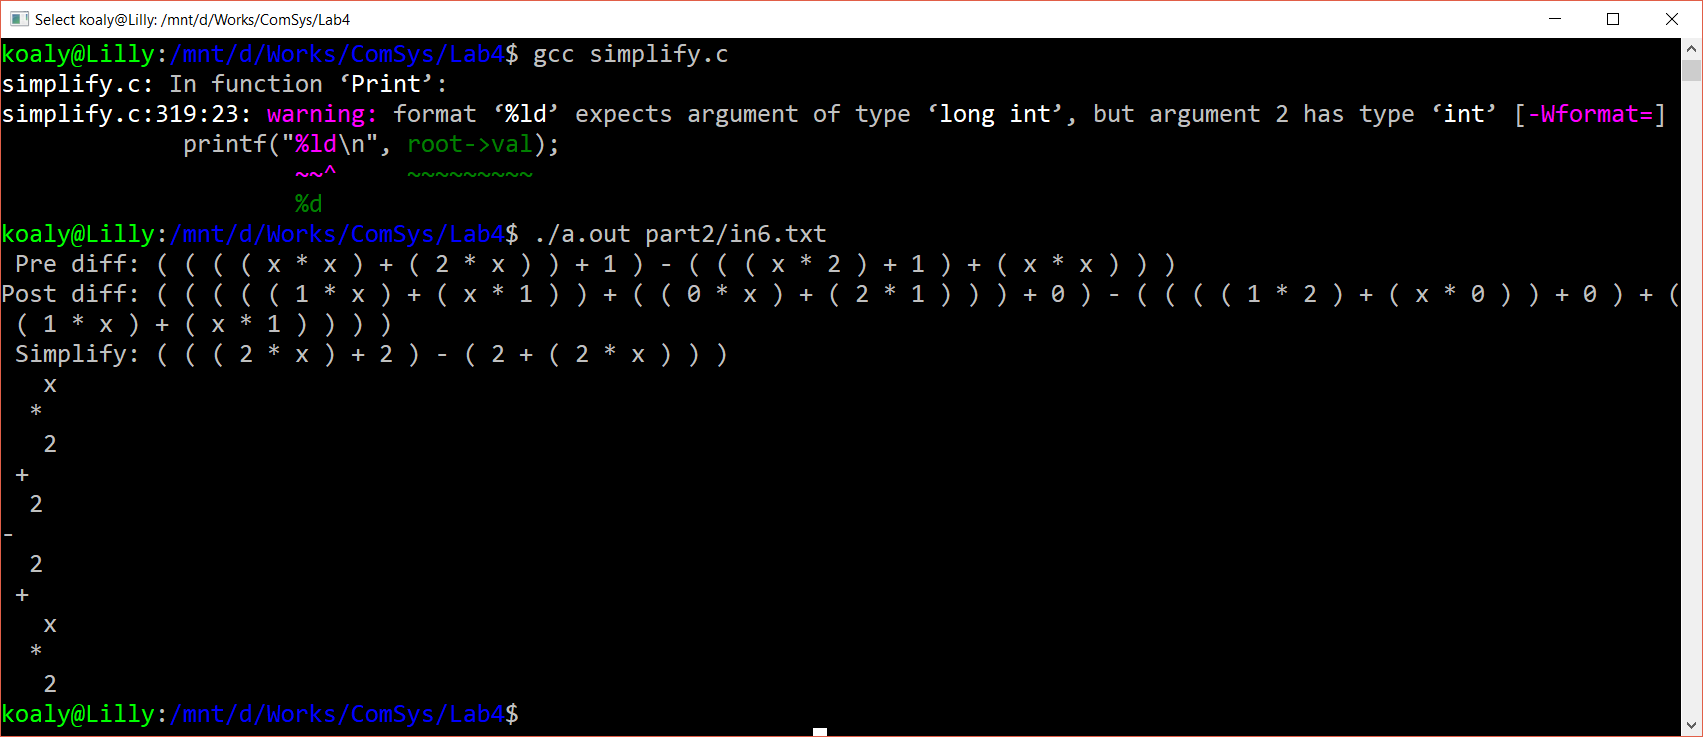
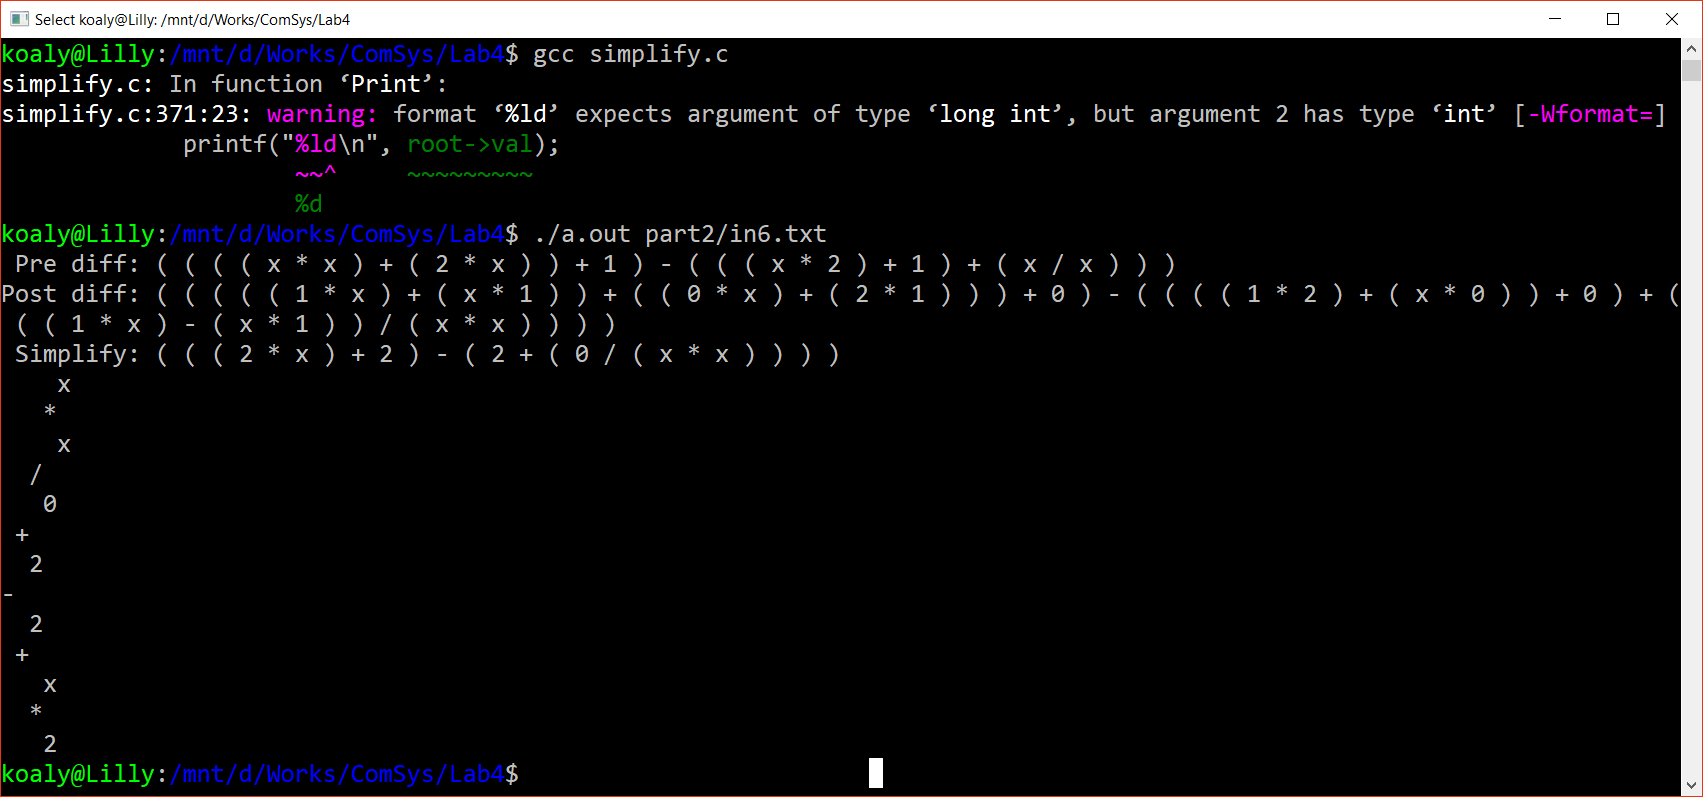
add diff for divide op

diff --git a/simplify.c b/simplify.c
@@ -103,6 +103,18 @@ static int SGet()
     return sym;
 }
 static int sym;
+static Node clone(Node root)
+{
+    if (root == NULL)
+        return root;
+
+    Node temp = malloc(sizeof(NodeDesc));
+    temp->kind = root->kind;
+    temp->val = root->val;
+    temp->left = clone(root->left);
+    temp->right = clone(root->right);
+    return temp;
+}
 static void Print(Node, int);
 static void PrintPrefix(Node);
 static void PrintInfix(Node);
@@ -209,11 +221,11 @@ static Node diff(Node root)
         l->kind = times;
         l->val = -1;
         l->left = diff(root->left);
-        l->right = root->right;
+        l->right = clone(root->right);
 
         r->kind = times;
         r->val = -1;
-        r->left = root->left;
+        r->left = clone(root->left);
         r->right = diff(root->right);
 
         res->kind = plus;
@@ -221,6 +233,46 @@ static Node diff(Node root)
         res->left = l;
         res->right = r;
 
+        return res;
+    }
+    else if (root->kind == divide)
+    {
+        Node l, r, ll, lr, rl, rr;
+        res = malloc(sizeof(NodeDesc));
+        l = malloc(sizeof(NodeDesc));
+        r = malloc(sizeof(NodeDesc));
+        ll = malloc(sizeof(NodeDesc));
+        lr = malloc(sizeof(NodeDesc));
+        rl = malloc(sizeof(NodeDesc));
+        rr = malloc(sizeof(NodeDesc));
+
+        ll->kind = times;
+        ll->val = -1;
+        ll->left = diff(root->left);
+        ll->right = clone(root->right);
+
+        lr->kind = times;
+        lr->val = -1;
+        lr->left = clone(root->left);
+        lr->right = diff(root->right);
+
+        l->kind = minus;
+        l->val = -1;
+        l->left = ll;
+        l->right = lr;
+
+        rl = clone(root->right);
+        rr = clone(root->right);
+
+        r->kind = times;
+        r->val = -1;
+        r->left = rl;
+        r->right = rr;
+
+        res->kind = divide;
+        r->val = -1;
+        res->left = l;
+        res->right = r;
         return res;
     }
 }

diff --git a/diff.c b/diff.c
@@ -103,6 +103,18 @@ static int SGet()
     return sym;
 }
 static int sym;
+static Node clone(Node root)
+{
+    if (root == NULL)
+        return root;
+
+    Node temp = malloc(sizeof(NodeDesc));
+    temp->kind = root->kind;
+    temp->val = root->val;
+    temp->left = clone(root->left);
+    temp->right = clone(root->right);
+    return temp;
+}
 static Node Expr();
 static Node Factor()
 {
@@ -200,13 +212,48 @@ static Node diff(Node root)
 
         l->kind = times;
         l->left = diff(root->left);
-        l->right = root->right;
+        l->right = clone(root->right);
 
         r->kind = times;
-        r->left = root->left;
+        r->left = clone(root->left);
         r->right = diff(root->right);
 
         res->kind = plus;
+        res->left = l;
+        res->right = r;
+        return res;
+    }
+    else if (root->kind == divide)
+    {
+        Node l, r, ll, lr, rl, rr;
+        res = malloc(sizeof(NodeDesc));
+        l = malloc(sizeof(NodeDesc));
+        r = malloc(sizeof(NodeDesc));
+        ll = malloc(sizeof(NodeDesc));
+        lr = malloc(sizeof(NodeDesc));
+        rl = malloc(sizeof(NodeDesc));
+        rr = malloc(sizeof(NodeDesc));
+
+        ll->kind = times;
+        ll->left = diff(root->left);
+        ll->right = clone(root->right);
+
+        lr->kind = times;
+        lr->left = clone(root->left);
+        lr->right = diff(root->right);
+
+        l->kind = minus;
+        l->left = ll;
+        l->right = lr;
+
+        rl = clone(root->right);
+        rr = clone(root->right);
+
+        r->kind = times;
+        r->left = rl;
+        r->right = rr;
+
+        res->kind = divide;
         res->left = l;
         res->right = r;
         return res;
